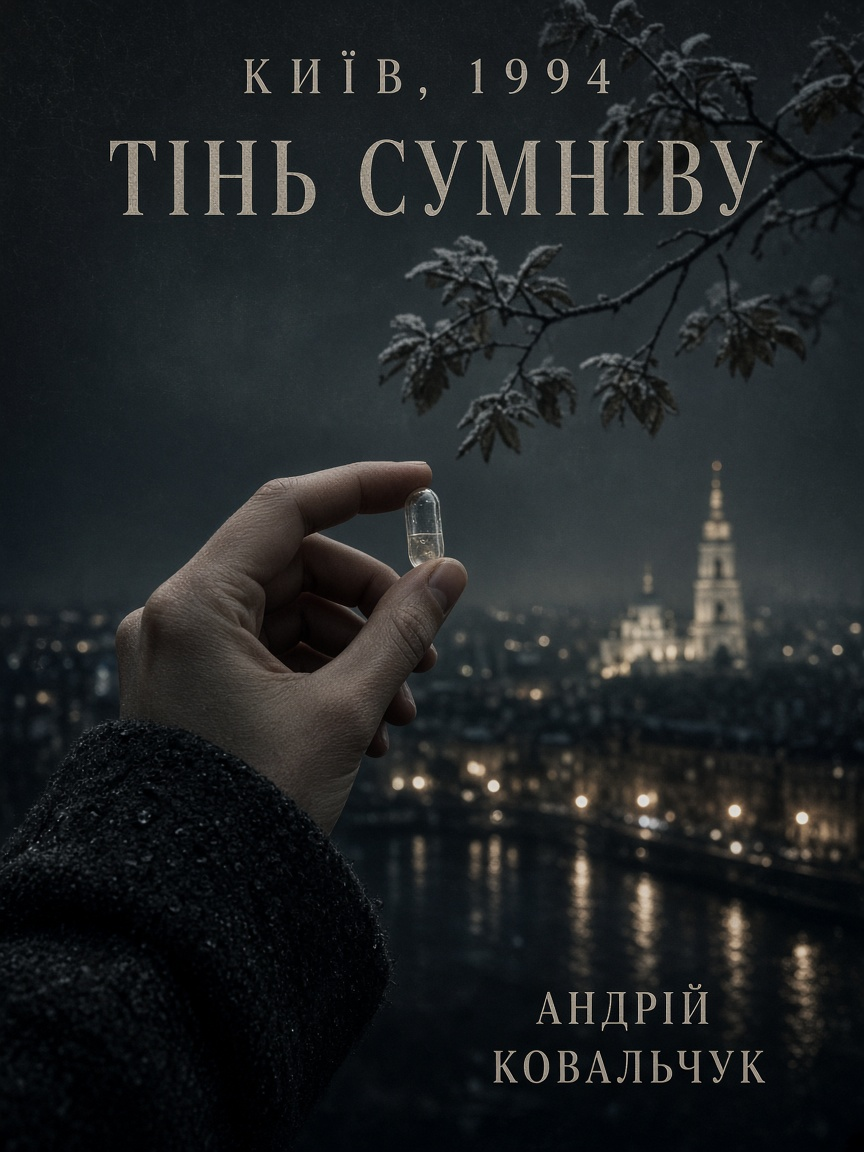
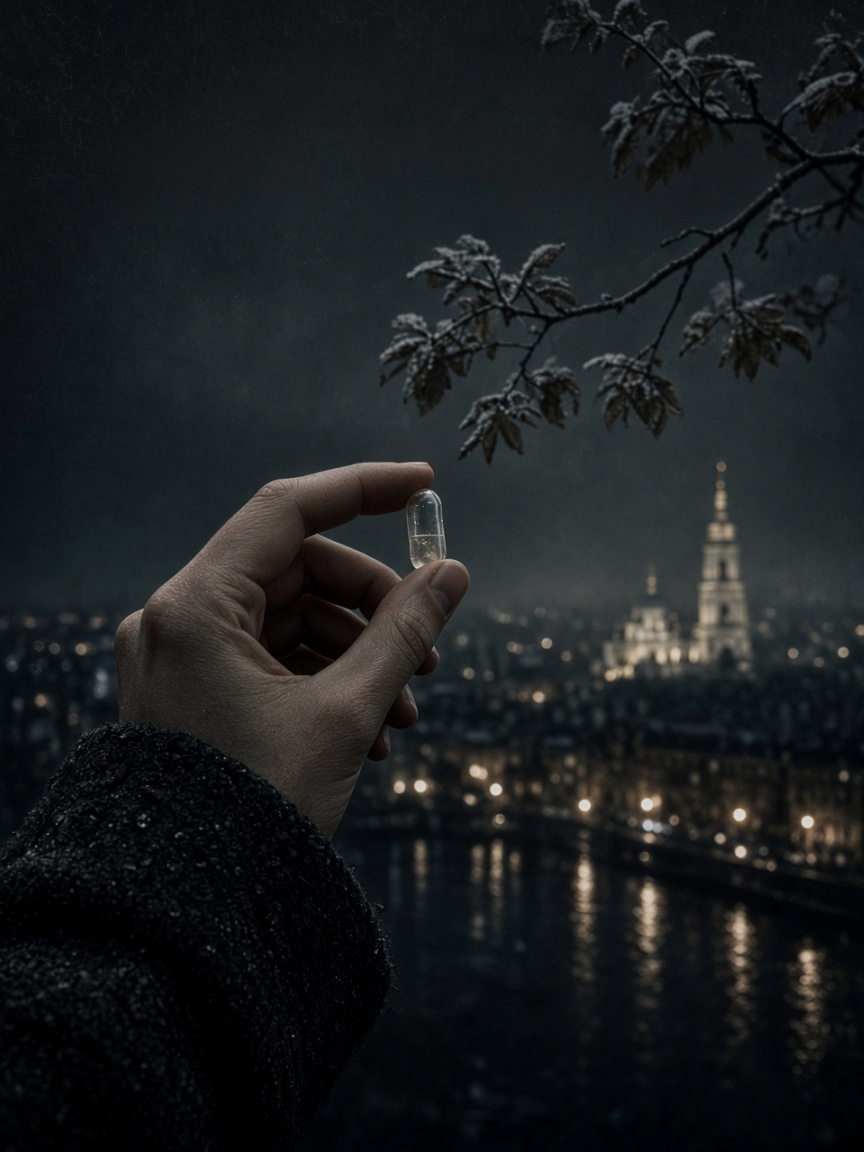
feat: фони на всьому GitHub Pages, обкладинка без написів
Hub і томи 2–3 підключені до тієї ж CSS-системи. Обкладинка лишає руку з капсулою без титулів.

diff --git a/docs/style-with-illustrations.css b/docs/style-with-illustrations.css
@@ -161,6 +161,16 @@ body.cover-page {
     background-image: url('assets/illustrations/tom1-v2/tom1-v2-00-cover.png');
 }
 
+body.tom2-page {
+    background-image: url('assets/illustrations/tom2/tom2-cover.png');
+    color: #e0f0e0;
+}
+
+body.tom3-page {
+    background-image: url('assets/illustrations/tom3/tom3-cover.png');
+    color: #dce6f0;
+}
+
 /* Content container */
 .container {
     max-width: 800px;
@@ -207,8 +217,59 @@ p {
     text-shadow: 1px 1px 2px rgba(0, 0, 0, 0.9);
 }
 
-p:first-of-type {
+p:first-of-type,
+.metadata,
+.voice-label,
+.nav-section p,
+body > p {
     text-indent: 0;
+    text-align: left;
+}
+
+.metadata {
+    font-size: 0.9rem;
+    color: rgba(245, 245, 245, 0.7);
+    font-style: italic;
+}
+
+.voice-label {
+    font-weight: 600;
+    color: var(--amber-warm);
+    font-size: 0.95rem;
+    text-transform: uppercase;
+    letter-spacing: 1px;
+}
+
+.nav-section {
+    background: rgba(0, 0, 0, 0.62);
+    border: 1px solid rgba(212, 165, 116, 0.25);
+    padding: 1.5rem 2rem;
+    margin: 2rem 0;
+    position: relative;
+    z-index: 1;
+}
+
+.nav-links {
+    list-style: none;
+    margin: 1rem 0;
+}
+
+.nav-links li {
+    margin: 0.5rem 0;
+    padding-left: 1rem;
+}
+
+hr {
+    border: none;
+    border-top: 1px solid rgba(212, 165, 116, 0.3);
+    margin: 2rem 0;
+}
+
+code {
+    background: rgba(0, 0, 0, 0.5);
+    padding: 0.2rem 0.5rem;
+    font-family: 'Courier New', monospace;
+    font-size: 0.9rem;
 }
 
 /* Links */

diff --git a/docs/03-nizhe-urovnya-shuma/akt-08-bellingcat-ii.html b/docs/03-nizhe-urovnya-shuma/akt-08-bellingcat-ii.html
@@ -4,9 +4,9 @@
     <meta charset="UTF-8">
     <meta name="viewport" content="width=device-width, initial-scale=1.0">
     <title>Акт VIII — Bellingcat (22:30–23:00) — Ниже уровня шума</title>
-    <link rel="stylesheet" href="../../style.css">
+    <link rel="stylesheet" href="../style-with-illustrations.css">
 </head>
-<body>
+<body class="tom3-page">
     <p><a href="akt-07-channel-ii.html">← Назад</a> | <a href="index.html">К оглавлению</a> | <a href="akt-09-manhattan-iii.html">Вперёд →</a></p>
 
     <article>

diff --git a/docs/03-nizhe-urovnya-shuma/akt-12-bellingcat-iii.html b/docs/03-nizhe-urovnya-shuma/akt-12-bellingcat-iii.html
@@ -4,9 +4,9 @@
     <meta charset="UTF-8">
     <meta name="viewport" content="width=device-width, initial-scale=1.0">
     <title>Акт XII — Bellingcat (23:00–23:30) — Ниже уровня шума</title>
-    <link rel="stylesheet" href="../../style.css">
+    <link rel="stylesheet" href="../style-with-illustrations.css">
 </head>
-<body>
+<body class="tom3-page">
     <p><a href="akt-11-channel-iii.html">← Назад</a> | <a href="index.html">К оглавлению</a> | <a href="akt-13-manhattan-iv.html">Вперёд →</a></p>
 
     <article>

diff --git a/docs/03-nizhe-urovnya-shuma/akt-13-manhattan-iv.html b/docs/03-nizhe-urovnya-shuma/akt-13-manhattan-iv.html
@@ -4,9 +4,9 @@
     <meta charset="UTF-8">
     <meta name="viewport" content="width=device-width, initial-scale=1.0">
     <title>Акт XIII — Manhattan (23:30–00:00) — Ниже уровня шума</title>
-    <link rel="stylesheet" href="../../style.css">
+    <link rel="stylesheet" href="../style-with-illustrations.css">
 </head>
-<body>
+<body class="tom3-page">
     <p><a href="akt-12-bellingcat-iii.html">← Назад</a> | <a href="index.html">К оглавлению</a> | <a href="akt-14-baltic-iv.html">Вперёд →</a></p>
 
     <article>

diff --git a/docs/03-nizhe-urovnya-shuma/akt-09-manhattan-iii.html b/docs/03-nizhe-urovnya-shuma/akt-09-manhattan-iii.html
@@ -4,9 +4,9 @@
     <meta charset="UTF-8">
     <meta name="viewport" content="width=device-width, initial-scale=1.0">
     <title>Акт IX — Manhattan (23:00–23:30) — Ниже уровня шума</title>
-    <link rel="stylesheet" href="../../style.css">
+    <link rel="stylesheet" href="../style-with-illustrations.css">
 </head>
-<body>
+<body class="tom3-page">
     <p><a href="akt-08-bellingcat-ii.html">← Назад</a> | <a href="index.html">К оглавлению</a> | <a href="akt-10-baltic-iii.html">Вперёд →</a></p>
 
     <article>

diff --git a/docs/03-nizhe-urovnya-shuma/akt-04-bellingcat-i.html b/docs/03-nizhe-urovnya-shuma/akt-04-bellingcat-i.html
@@ -4,9 +4,9 @@
     <meta charset="UTF-8">
     <meta name="viewport" content="width=device-width, initial-scale=1.0">
     <title>Акт IV — Bellingcat (22:00–22:30) — Ниже уровня шума</title>
-    <link rel="stylesheet" href="../../style.css">
+    <link rel="stylesheet" href="../style-with-illustrations.css">
 </head>
-<body>
+<body class="tom3-page">
     <p><a href="akt-03-channel-i.html">← Назад</a> | <a href="index.html">К оглавлению</a> | <a href="akt-05-manhattan-ii.html">Вперёд →</a></p>
 
     <article>

diff --git a/docs/03-nizhe-urovnya-shuma/akt-11-channel-iii.html b/docs/03-nizhe-urovnya-shuma/akt-11-channel-iii.html
@@ -4,9 +4,9 @@
     <meta charset="UTF-8">
     <meta name="viewport" content="width=device-width, initial-scale=1.0">
     <title>Акт XI — Channel (23:00–23:30) — Ниже уровня шума</title>
-    <link rel="stylesheet" href="../../style.css">
+    <link rel="stylesheet" href="../style-with-illustrations.css">
 </head>
-<body>
+<body class="tom3-page">
     <p><a href="akt-10-baltic-iii.html">← Назад</a> | <a href="index.html">К оглавлению</a> | <a href="akt-12-bellingcat-iii.html">Вперёд →</a></p>
 
     <article>

diff --git a/docs/03-nizhe-urovnya-shuma/akt-07-channel-ii.html b/docs/03-nizhe-urovnya-shuma/akt-07-channel-ii.html
@@ -4,9 +4,9 @@
     <meta charset="UTF-8">
     <meta name="viewport" content="width=device-width, initial-scale=1.0">
     <title>Акт VII — Channel (22:30–23:00) — Ниже уровня шума</title>
-    <link rel="stylesheet" href="../../style.css">
+    <link rel="stylesheet" href="../style-with-illustrations.css">
 </head>
-<body>
+<body class="tom3-page">
     <p><a href="akt-06-baltic-ii.html">← Назад</a> | <a href="index.html">К оглавлению</a> | <a href="akt-08-bellingcat-ii.html">Вперёд →</a></p>
 
     <article>

diff --git a/docs/03-nizhe-urovnya-shuma/akt-05-manhattan-ii.html b/docs/03-nizhe-urovnya-shuma/akt-05-manhattan-ii.html
@@ -4,9 +4,9 @@
     <meta charset="UTF-8">
     <meta name="viewport" content="width=device-width, initial-scale=1.0">
     <title>Акт V — Manhattan (22:30–23:00) — Ниже уровня шума</title>
-    <link rel="stylesheet" href="../../style.css">
+    <link rel="stylesheet" href="../style-with-illustrations.css">
 </head>
-<body>
+<body class="tom3-page">
     <p><a href="akt-04-bellingcat-i.html">← Назад</a> | <a href="index.html">К оглавлению</a> | <a href="akt-06-baltic-ii.html">Вперёд →</a></p>
 
     <article>

diff --git a/docs/03-nizhe-urovnya-shuma/akt-10-baltic-iii.html b/docs/03-nizhe-urovnya-shuma/akt-10-baltic-iii.html
@@ -4,9 +4,9 @@
     <meta charset="UTF-8">
     <meta name="viewport" content="width=device-width, initial-scale=1.0">
     <title>Акт X — Baltic (23:00–23:30) — Ниже уровня шума</title>
-    <link rel="stylesheet" href="../../style.css">
+    <link rel="stylesheet" href="../style-with-illustrations.css">
 </head>
-<body>
+<body class="tom3-page">
     <p><a href="akt-09-manhattan-iii.html">← Назад</a> | <a href="index.html">К оглавлению</a> | <a href="akt-11-channel-iii.html">Вперёд →</a></p>
 
     <article>

diff --git a/docs/03-nizhe-urovnya-shuma/akt-14-baltic-iv.html b/docs/03-nizhe-urovnya-shuma/akt-14-baltic-iv.html
@@ -4,9 +4,9 @@
     <meta charset="UTF-8">
     <meta name="viewport" content="width=device-width, initial-scale=1.0">
     <title>Акт XIV — Baltic (23:30–00:00) — Ниже уровня шума</title>
-    <link rel="stylesheet" href="../../style.css">
+    <link rel="stylesheet" href="../style-with-illustrations.css">
 </head>
-<body>
+<body class="tom3-page">
     <p><a href="akt-13-manhattan-iv.html">← Назад</a> | <a href="index.html">К оглавлению</a> | <a href="akt-15-channel-iv.html">Вперёд →</a></p>
 
     <article>

diff --git a/docs/03-nizhe-urovnya-shuma/akt-15-channel-iv.html b/docs/03-nizhe-urovnya-shuma/akt-15-channel-iv.html
@@ -4,9 +4,9 @@
     <meta charset="UTF-8">
     <meta name="viewport" content="width=device-width, initial-scale=1.0">
     <title>Акт XV — Channel (23:30–00:00) — Ниже уровня шума</title>
-    <link rel="stylesheet" href="../../style.css">
+    <link rel="stylesheet" href="../style-with-illustrations.css">
 </head>
-<body>
+<body class="tom3-page">
     <p><a href="akt-14-baltic-iv.html">← Назад</a> | <a href="index.html">К оглавлению</a> | <a href="akt-16-bellingcat-iv.html">Вперёд →</a></p>
 
     <article>
